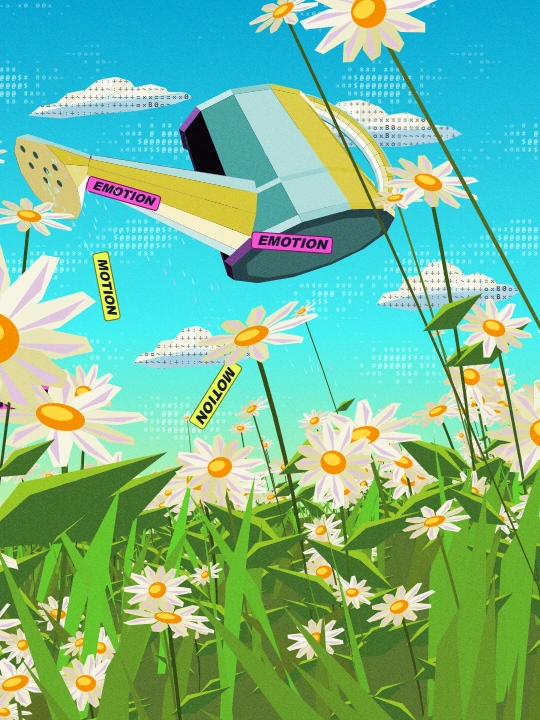
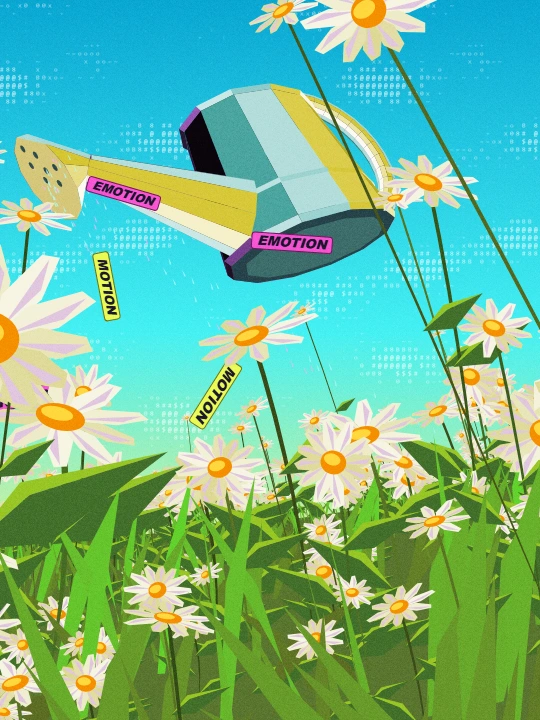
Keep only the subtle animated ASCII clouds in Rocío

diff --git a/public/tools/rocio/scene.js b/public/tools/rocio/scene.js
@@ -37,12 +37,6 @@ const plants=[
   ...[...flowers,...lowFlowers].map(f=>({z:f.z,flower:f})),
   ...grass.map(b=>({z:b.z,blade:b}))
 ].sort((a,b)=>b.z-a.z)
-const cloudBanks=[
-  [-4.1,12.1,9,1.4], [3.7,10.2,10,1.7], [-2.3,4.5,12,1], [6,5.7,13,1.4]
-]
-const cloudRim=[[-1.8,0],[-1.56,.27],[-1.18,.31],[-.95,.61],[-.54,.65],
-  [-.27,.95],[.17,1],[.51,.78],[.63,.53],[1,.59],[1.35,.38],[1.41,.23],
-  [1.78,.17],[1.96,-.04],[1.48,-.22],[.65,-.31],[-.19,-.26],[-1,-.25]]
 const noise = document.createElement('canvas')
 noise.width = noise.height = 192
 const noiseCtx = noise.getContext('2d')
@@ -54,28 +48,28 @@ for (let i=0; i<pixels.data.length; i+=4) {
 noiseCtx.putImageData(pixels,0,0)
 const posterTexture = new WeakMap()
 // Tramas neutras: la luz de los glifos conserva el tono elegido para el cielo.
-function asciiLayer(cloud) {
+function asciiLayer() {
   const tile=document.createElement('canvas')
-  tile.width=cloud ? 288 : 768
-  tile.height=cloud ? 144 : 1536
-  const ink=tile.getContext('2d'), randomGlyph=seeded(cloud?620:207)
+  tile.width=768
+  tile.height=1536
+  const ink=tile.getContext('2d'), randomGlyph=seeded(207)
   const alphabet='.:+~=ox0B8#$@'
-  ink.font=cloud ? 'bold 16px monospace' : 'bold 13px monospace'
+  ink.font='bold 13px monospace'
   for(let y=0;y<tile.height;y+=16) {
     for(let x=0;x<tile.width;x+=12) {
       const a=TAU*x/tile.width
       const wave=sin(a+sin(y*.012)*2)+cos(y*.033+a)+.45*sin(3*a-y*.023)
       const density=Math.min(1,Math.max(0,(wave-.15)*.55))
       const pick=randomGlyph()
-      if(!cloud && pick>.09+density*.85) continue
-      const value=cloud ? .12+.70*density+.16*pick : density
-      ink.fillStyle=cloud ? 'rgba(0,0,0,'+(.28+.40*value)+')' : 'rgba(255,255,255,'+(.15+.49*density)+')'
-      ink.fillText(alphabet[Math.floor(value*(alphabet.length-1))],x,y+13)
+      if(pick>.09+density*.85) continue
+
+      ink.fillStyle='rgba(255,255,255,'+(.15+.49*density)+')'
+      ink.fillText(alphabet[Math.floor(density*(alphabet.length-1))],x,y+13)
     }
   }
   return tile
 }
-const skyGlyphs=asciiLayer(false), cloudGlyphs=asciiLayer(true)
+const skyGlyphs=asciiLayer()
 
 export function render(ctx, phase, p, interaction) {
   phase%=1
@@ -160,40 +154,6 @@ export function render(ctx, phase, p, interaction) {
     ctx.fillStyle=color(35,100,48);ctx.beginPath();ctx.ellipse(0,0,.49,.5,0,0,TAU);ctx.fill()
     ctx.fillStyle=color(48,100,62);ctx.beginPath();ctx.ellipse(-.08,-.11,.32,.25,0,0,TAU);ctx.fill()
     ctx.restore()
-  }
-  function drawCloud([x,y,z,size],offset) {
-    const cloudPoint=([a,b])=>{
-      const pt=project([x+a*size,y+b*size,z+.12*a])
-      pt[0]+=offset
-      return pt
-    }
-    const edge=cloudRim.map(cloudPoint)
-    if(edge.every(v=>v[0]<540-540*p.squeeze)||edge.every(v=>v[0]>540+540*p.squeeze)) return
-    const centers=[[-.95,.13],[.02,.28],[.96,.10]].map(cloudPoint)
-    for(let i=0;i<edge.length;i++){
-      const j=(i+1)%edge.length
-      const region=a=>a<-.5?0:a>.7?2:1
-      const left=region(cloudRim[i][0]),right=region(cloudRim[j][0])
-      const light=i<12 ? 93+3*sin(i*1.7) : 79+3*cos(i)
-      polygon([edge[i],edge[j],centers[right],centers[left]],color(i<12?49:197,48,light))
-    }
-    polygon(centers,color(190,45,88))
-    ctx.save()
-    ctx.beginPath()
-    edge.forEach(([px,py],i)=>i ? ctx.lineTo(px,py) : ctx.moveTo(px,py))
-    ctx.closePath()
-    ctx.clip()
-    const minX=Math.min(...edge.map(v=>v[0])), minY=Math.min(...edge.map(v=>v[1]))
-    const width=Math.max(...edge.map(v=>v[0]))-minX, height=Math.max(...edge.map(v=>v[1]))-minY
-    ctx.translate(minX,minY)
-    ctx.globalAlpha=p.ascii
-    ctx.fillStyle=ctx.createPattern(cloudGlyphs,'repeat')
-    ctx.fillRect(0,0,width,height)
-    ctx.restore()
-  }
-  for(const bank of cloudBanks) {
-    const period=(W+bank[3]*380)*p.squeeze
-    for(let copy=-2;copy<=2;copy++) drawCloud(bank,(skyPhase+copy)*period)
   }
   // La tierra sigue el mismo horizonte curvo que las raíces.
   const horizon=Array.from({length:45},(_,i)=>project([(i-22)*1.4,-.25,12+cos(i*.38)]))
